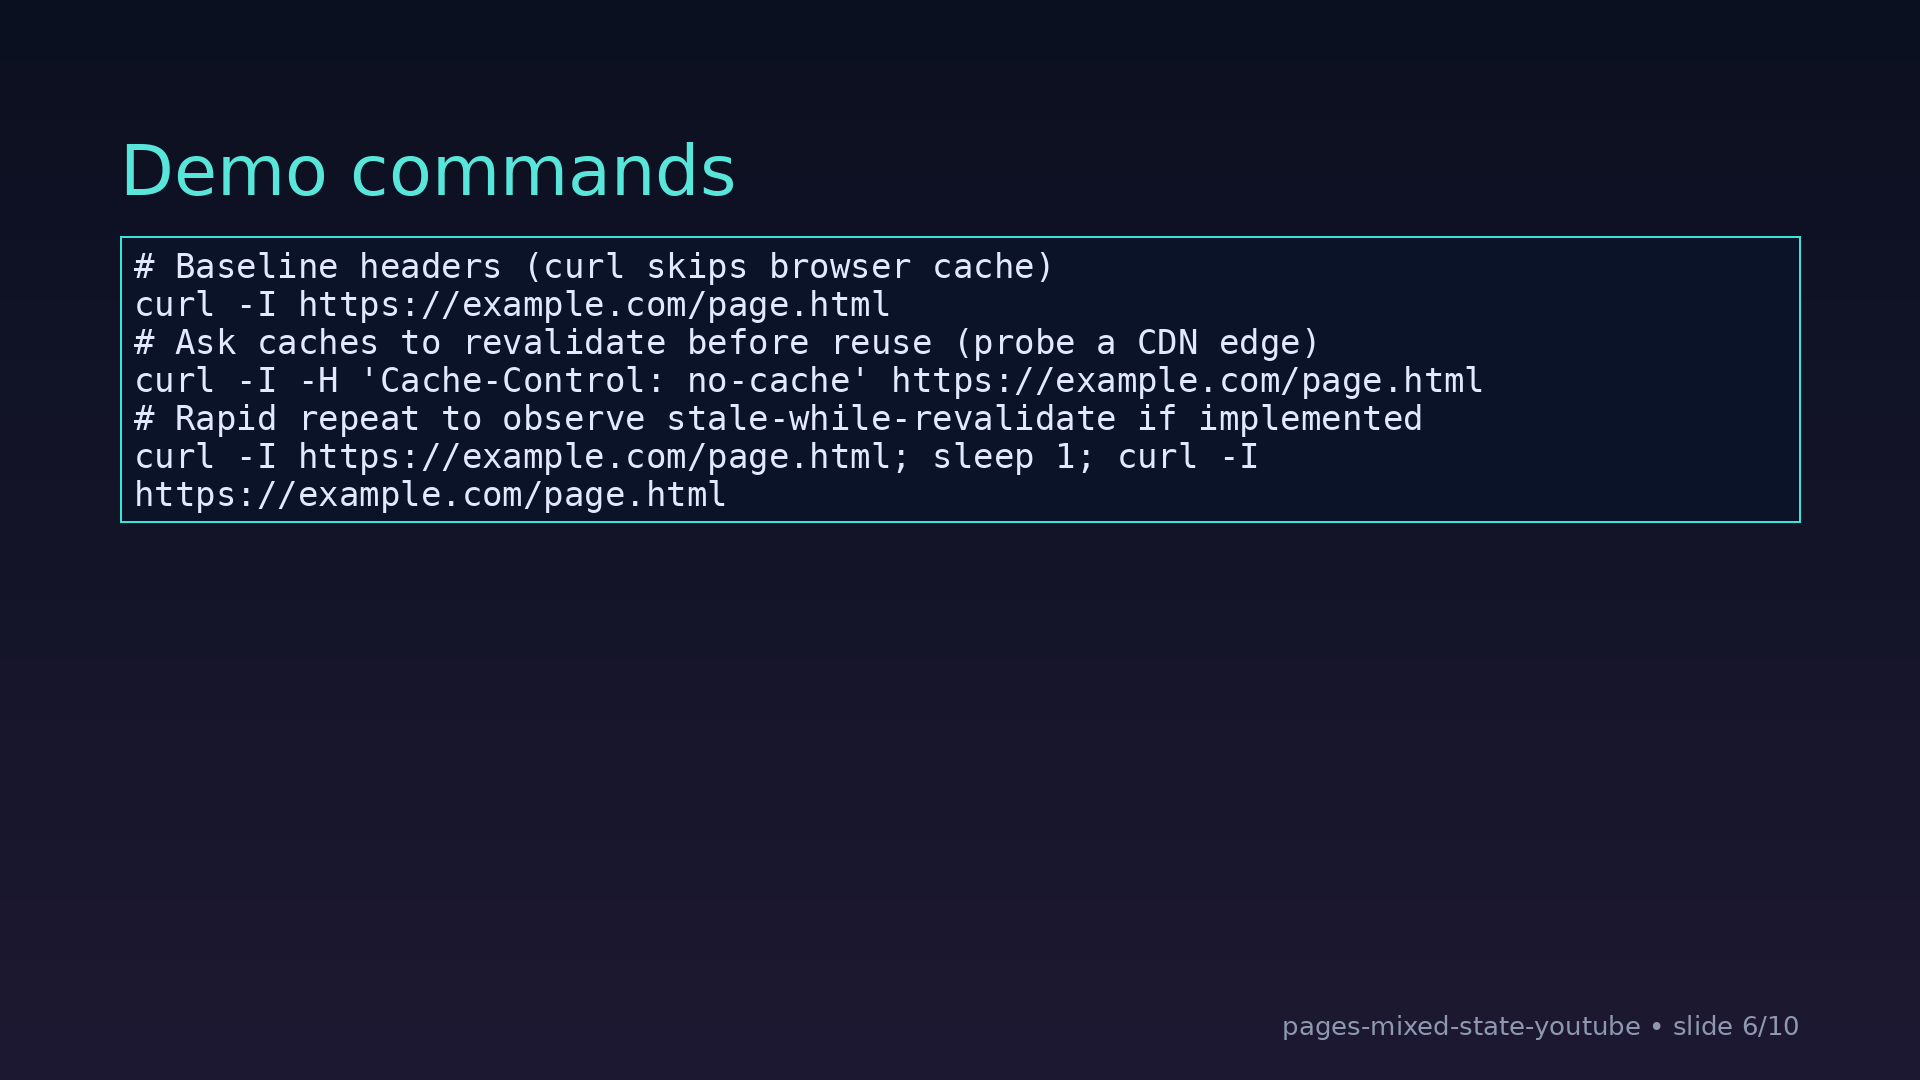
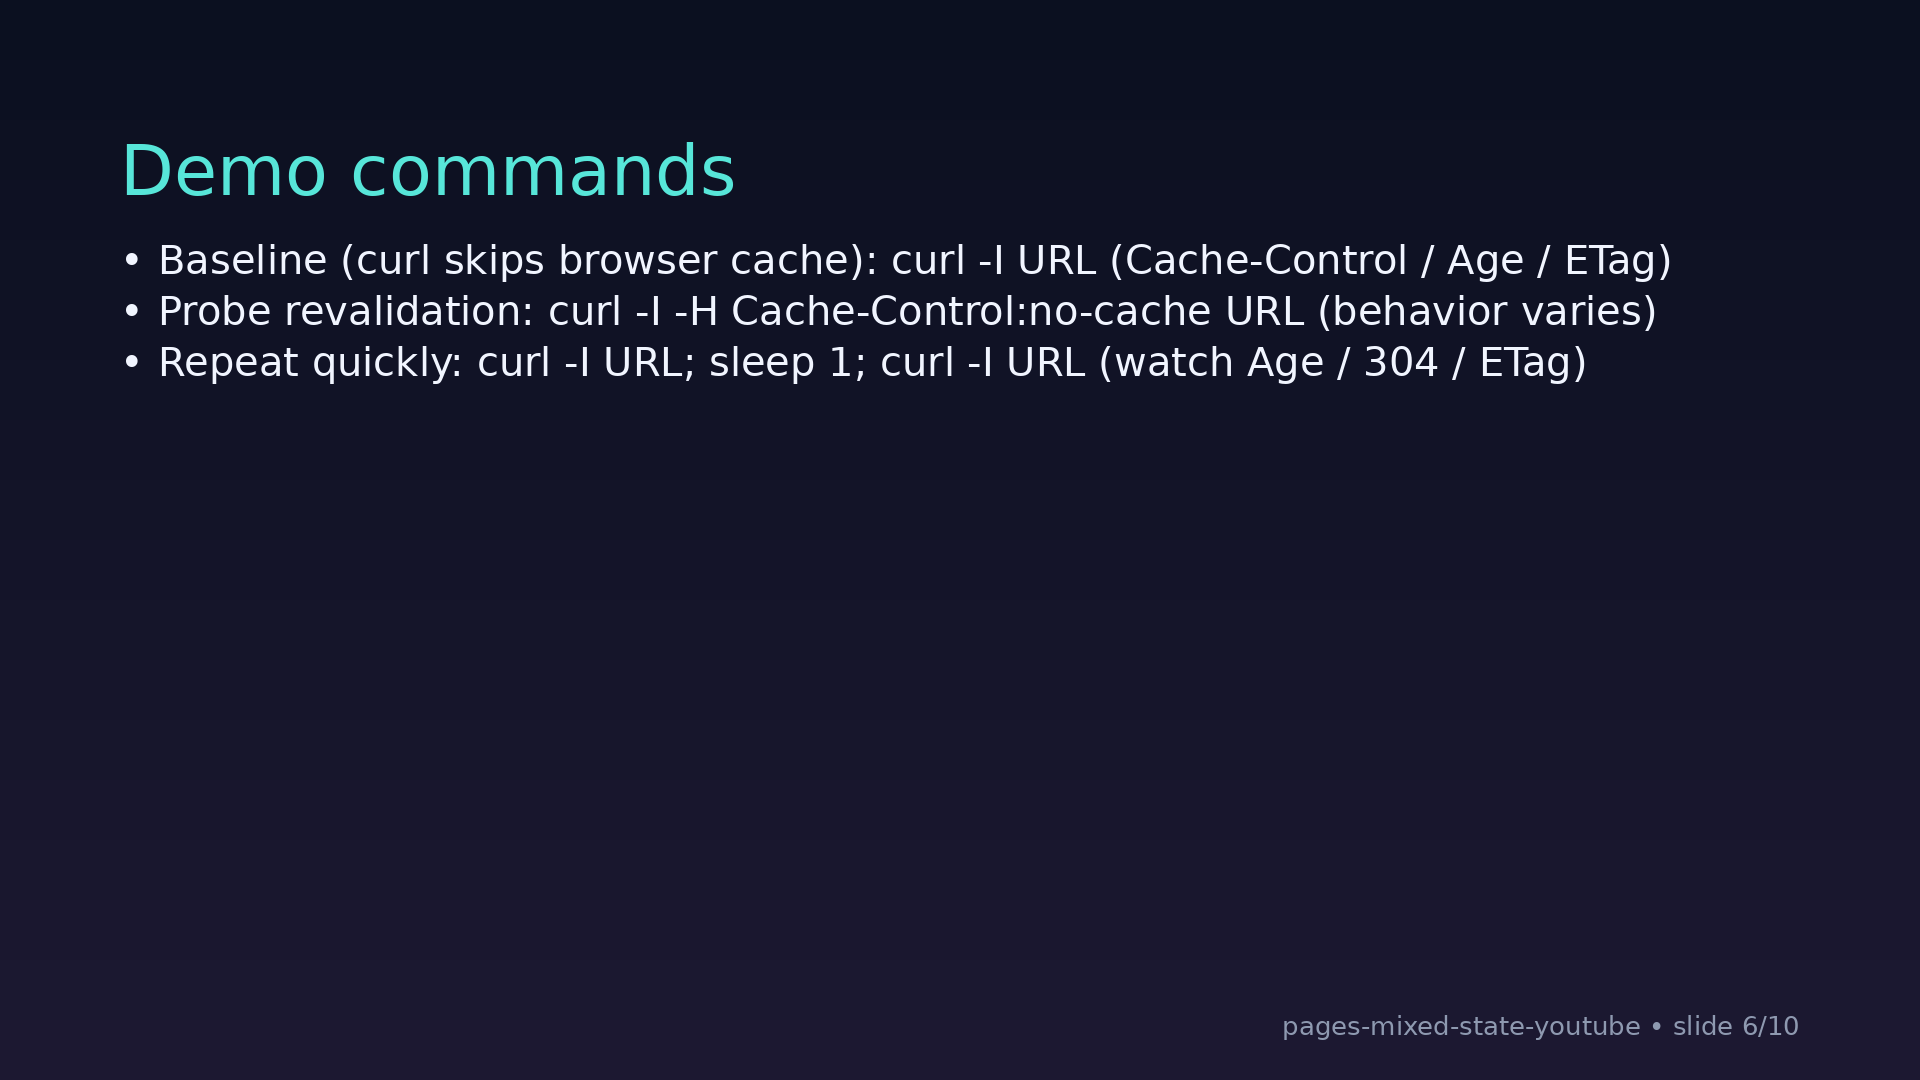
Video 5: add slide headings + simplify demo slide; add header examples

Changed region(s): [[0.0625, 0.2139, 0.875, 0.4889]]

diff --git a/script/VIDEO5_narration.md b/script/VIDEO5_narration.md
@@ -1,19 +1,29 @@
+## Slide 1 — Cache-Control in the Wild
 Ship a fix, your coworker reloads and still sees the bug. You hard refresh and it disappears. The response shows Cache-Control with max-age 300, s-maxage 30, stale-while-revalidate 120. In the next few minutes, we’ll figure out which cache lied to you.
 
-There are two independent caches you care about: the browser cache on the viewer’s device and a shared cache at the edge, like a CDN or reverse proxy. Cache-Control tells caches whether they can reuse a response without revalidation and for how long. It doesn’t push new content; it governs reuse. max-age applies to any cache unless something overrides it. s-maxage overrides for shared caches; browsers ignore it. must-revalidate means that after the freshness window you’re supposed to revalidate before reuse; it does not force checks during max-age, and real intermediaries vary. stale-while-revalidate means a cache may serve a stale response for the stated seconds after max-age while it fetches fresh in the background—if it implements that directive.
+## Slide 2 — Two caches
+There are two independent caches you care about: the browser cache on the viewer’s device and a shared cache at the edge, like a CDN or reverse proxy. Cache-Control tells caches whether they can reuse a response without revalidation and for how long. It doesn’t push new content; it governs reuse. Think about two separate behaviors: the browser cache is per-user, per-device, and follows max-age, no-cache, must-revalidate, and stale-while-revalidate where supported. The CDN or shared cache is for everyone and follows max-age unless s-maxage overrides it. Age is added by caches and means “this response has been sitting here for N seconds since it was generated or last validated.” Browsers usually don’t expose their local cache age with an Age header; CDNs often do.
 
-Think about two separate behaviors: the browser cache is per-user, per-device, and follows max-age, no-cache, must-revalidate, and stale-while-revalidate where supported. The CDN or shared cache is for everyone and follows max-age unless s-maxage overrides it. Age is added by caches and means “this response has been sitting here for N seconds since it was generated or last validated.” Browsers usually don’t expose their local cache age with an Age header; CDNs often do.
+## Slide 3 — Plain-language directives
+max-age applies to any cache unless something overrides it. s-maxage overrides for shared caches; browsers ignore it. must-revalidate means that after the freshness window you’re supposed to revalidate before reuse; it does not force checks during max-age, and real intermediaries vary. stale-while-revalidate means a cache may serve a stale response for the stated seconds after max-age while it fetches fresh in the background—if it implements that directive. Read Cache-Control in plain language. “You may reuse this for max-age equals N seconds without checking.” “If you’re a shared cache, use s-maxage equals M instead.” “After that window, must-revalidate: once freshness expires, revalidate before reuse, if the intermediary enforces it.” “If you support it, you may serve stale for stale-while-revalidate equals K seconds beyond max-age while you fetch fresh in the background.” And no-cache means you may store it, but you must revalidate before reuse.
 
-Read Cache-Control in plain language. “You may reuse this for max-age equals N seconds without checking.” “If you’re a shared cache, use s-maxage equals M instead.” “After that window, must-revalidate: once freshness expires, revalidate before reuse, if the intermediary enforces it.” “If you support it, you may serve stale for stale-while-revalidate equals K seconds beyond max-age while you fetch fresh in the background.” And no-cache means you may store it, but you must revalidate before reuse.
-
+## Slide 4 — How CDN vs browser diverge
 Here’s how the browser and CDN interplay with Cache-Control: with max-age 300 and s-maxage 30, a CDN might keep an object fresh for 30 seconds, while browsers keep it fresh for 300. If the CDN revalidates at 31 seconds and gets new content, browsers that cached the old response can still reuse it for up to 300 seconds unless told otherwise. stale-while-revalidate makes user experience smoother but can mask a brief deploy because a cache may serve stale during the background refresh if it implements SWR. must-revalidate kicks in only after freshness ends; it’s the intent, but not all intermediaries honor it.
 
+## Slide 5 — Diagram
+Picture the flow: browser cache to CDN or edge to origin, with Cache-Control, Age, and validators flowing back down.
+
+## Slide 6 — Demo commands
 Let’s walk through a quick curl probe. First, run curl dash I on the URL to see Cache-Control, Age, and any CDN hints; curl bypasses your browser cache entirely, so you’re inspecting the network. Then send curl dash I with an added header, Cache-Control: no-cache, to ask caches to revalidate before reuse; some may still behave differently, so you’re probing real behavior. After waiting past max-age or s-maxage, run curl dash I again and watch whether Age resets or a header like CF-Cache-Status shows a revalidation. To spot stale-while-revalidate in action, prime the cache with curl dash I, then hit it again immediately; if the cache supports SWR, you might see one stale serve while it refreshes in the background, then a fresh one.
 
+## Slide 7 — Common traps
 Common traps: no-cache does not mean no storage; it means revalidate before reuse. Age reflects how long the cached response has lived; browsers usually don’t emit it, CDNs often do. s-maxage overrides max-age for shared caches; browsers ignore it. stale-while-revalidate may show old content while fetching new, if the cache implements it. must-revalidate applies after expiry; honoring it varies—don’t assume it prevents all stale serves. For private content, Cache-Control: private stops shared caches, but browsers still cache unless you say no-store or use a short max-age.
 
+## Slide 8 — Practical patterns
 Practical patterns I ship: HTML or doc pages often get a short max-age or no-cache plus validators like ETag or Last-Modified so revalidation is quick. Fingerprinted static assets like app dot abc123 dot js get very long max-age equals 31536000 with immutable where supported, relying on the filename change to update. Sensitive responses often use no-store and sometimes private to avoid unintended caching.
 
+## Slide 9 — When this model breaks
 Where this model breaks: service workers, app caches, or heavy SPA bundling can short-circuit normal HTTP cache semantics. Multiple CDNs or layered proxies can add hops where directives or enforcement differ.
 
+## Slide 10 — Recap checklist
 Quick recap. Identify which cache answered: look at Age, Via or CF-Cache-Status, and whether a CDN sits in front. Read Cache-Control fully: max-age, s-maxage, no-cache, must-revalidate, stale-while-revalidate. Probe with curl dash I plus an optional Cache-Control: no-cache to force revalidation. When debugging deploys, log the URL, time, status, Cache-Control, Age, validators like ETag or Last-Modified, and any CDN hints. Keep claims modest: this behavior is typical, not guaranteed across CDNs and browsers.

diff --git a/script/VIDEO5_production_notes.md b/script/VIDEO5_production_notes.md
@@ -45,3 +45,26 @@
 - Scrub tokens/credentials from env, prompt, history; avoid showing kube contexts or git remotes if sensitive.
 - For timing demos, let Age headers render fully; pause briefly after each command so values are readable.
 - If using overlays, add a small on-screen “typical, not guaranteed” label during SWR demo to reinforce expectations.
+
+## Real-world header examples (captured via curl)
+Call out the Age line and cache/vendor hints on screen so viewers know what to scan for when they run their own probes.
+
+- https://www.example.com/
+  ```
+  HTTP/2 200
+  server: cloudflare
+  last-modified: Sun, 17 May 2026 20:05:30 GMT
+  age: 8087
+  cf-cache-status: HIT
+  ```
+- https://github.githubassets.com/favicon.ico
+  ```
+  HTTP/2 200
+  last-modified: Wed, 14 Aug 2024 19:19:11 GMT
+  etag: "0x8DCBC95FA238547"
+  via: 1.1 varnish, 1.1 varnish
+  age: 188
+  x-cache: HIT, HIT
+  x-served-by: cache-iad-kjyo7100126-IAD, cache-lga21939-LGA
+  ```
+Even a `Cache-Control: no-cache` probe can come back with HIT depending on the edge’s policy—remind viewers that validation is optional and to read the Age + hints together.
